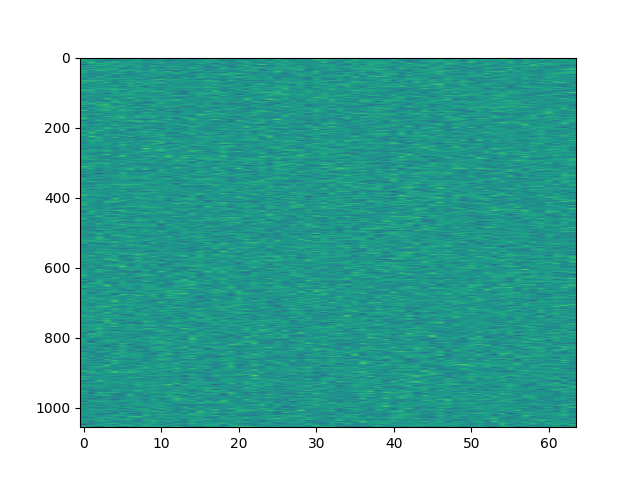
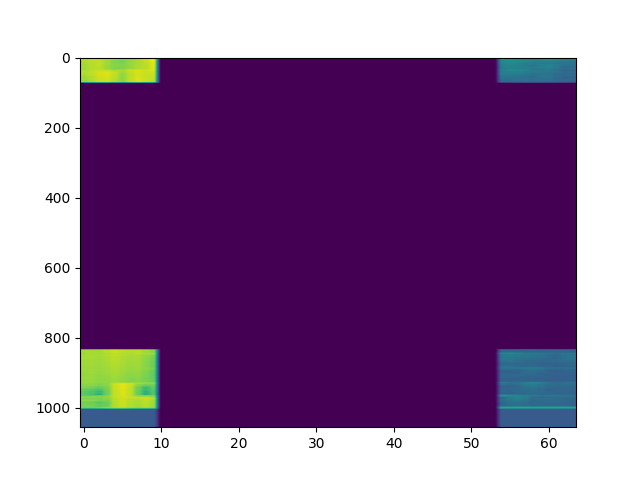
update

diff --git a/dataset.py b/dataset.py
@@ -185,18 +185,19 @@ class Dataset(Dataset):
         fbank = torch.transpose(fbank, 0, 1)
         fbank = fbank.unsqueeze(0)
         
-        fbank_with_context = self.decide_with_context_or_not()
+        # fbank_with_context = self.decide_with_context_or_not()
         
-        if(not fbank_with_context):
-            fbank = torch.randn_like(fbank).to(fbank.device) # context become random noise
-        else:
-            if(self.use_blur): 
-                fbank = self.blur(fbank)
-            if self.freqm != 0:
-                fbank = self.frequency_masking(fbank, self.freqm)
-            if self.timem != 0:
-                fbank = self.time_masking(fbank, self.timem)
-            fbank = (fbank+1e-7).log()
+        # if(not fbank_with_context):
+        #     fbank = fbank * 0.0 # Without any context information
+        # else:
+        if(self.use_blur): 
+            fbank = self.blur(fbank)
+        if self.freqm != 0:
+            fbank = self.frequency_masking(fbank, self.freqm)
+        if self.timem != 0:
+            fbank = self.time_masking(fbank, self.timem)
+        
+        fbank = (fbank+1e-7).log()
 
         fbank = fbank.squeeze(0)
         fbank = torch.transpose(fbank, 0, 1)
@@ -218,9 +219,7 @@ class Dataset(Dataset):
                 
         #########################################
         original_fbank = self.normalize(original_fbank)
-        
-        if(fbank_with_context):
-            fbank = self.normalize(fbank)
+        fbank = self.normalize(fbank)
         
         return original_fbank, fbank, label_indices, datum['wav'], seg_label
 
@@ -233,10 +232,11 @@ class Dataset(Dataset):
 
     def blur(self, fbank):
         # assert torch.min(fbank) >= 0
-        kernel_size=int(self.random_uniform(1, self.melbins // 4))
-        if(kernel_size % 2 == 0): 
-            kernel_size -= 1
-        fbank = torchvision.transforms.functional.gaussian_blur(fbank, kernel_size=[kernel_size, kernel_size])
+        F_kernel_size=int(self.random_uniform(1, self.melbins // 4))
+        
+        if(F_kernel_size % 2 == 0): F_kernel_size -= 1
+        
+        fbank = torchvision.transforms.functional.gaussian_blur(fbank, kernel_size=[F_kernel_size, F_kernel_size])
         return fbank
 
     def frequency_masking(self, fbank, freqm):

diff --git a/train.py b/train.py
@@ -26,6 +26,10 @@ from dataset import Dataset
 from evaluate import evaluate
 import math
 
+import time
+from datetime import datetime
+# current_time = date +"_"+ current_time
+
 def build_id_to_label(
     path,
 ):
@@ -195,7 +199,7 @@ def main(rank, n_gpus, args, configs):
             # fbank: [4, 1000, 80], labels: [4, 309]
             original_fbank, fbank, labels, fnames, seg_label = batchs 
             
-            if(id == 0):
+            if(id % 50 == 0):
                 for i in range(fbank.size(0)):
                     fb = fbank[i].numpy()
                     original_fb = original_fbank[i].numpy()
@@ -241,8 +245,13 @@ def main(rank, n_gpus, args, configs):
 
             if step % log_step == 0 or step < 10:
                 lr = optimizer.get_lr()
-                message1 = "Step {}/{}, ".format(step, total_step)
-                message2 = "Diff Loss: %.4f, lr %s" % (diff_loss, lr)
+                t = time.localtime()
+                date = datetime.today().strftime('%Y-%m-%d')
+                current_time = time.strftime("%H:%M:%S", t)
+                current_time = date + " " + current_time
+                
+                message1 = "{} Step {}/{}, ".format(current_time, step, total_step)
+                message2 = "%s Diff Loss: %.4f, lr %s" % (current_time, diff_loss, lr)
 
                 with open(os.path.join(train_log_path, "log.txt"), "a") as f:
                     f.write(message1 + message2 + "\n")
